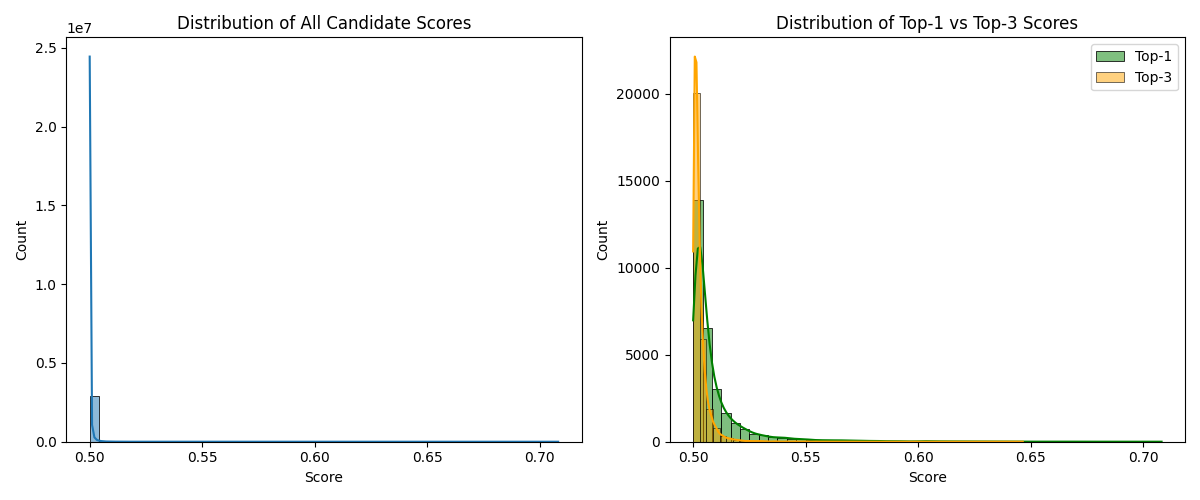
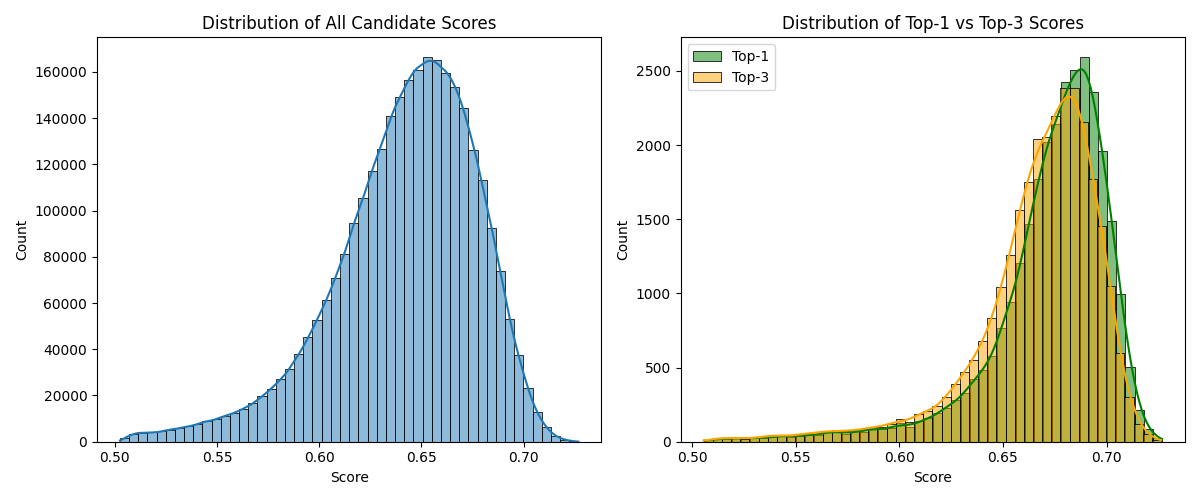
New rerank model -> fuck!

diff --git a/analyze_level0_distribution.py b/analyze_level0_distribution.py
@@ -1,0 +1,223 @@
+import json
+import numpy as np
+import matplotlib.pyplot as plt
+import seaborn as sns
+from collections import defaultdict, Counter
+
+def get_level0_mapping():
+    """
+    각 클래스가 어느 level 0 클래스에 속하는지 매핑
+    Returns: {class_id: level0_class_id}
+    """
+    # Load hierarchy
+    with open('Amazon_products/class_hierarchy.txt', 'r') as f:
+        edges = []
+        for line in f:
+            parts = line.strip().split('\t')
+            if len(parts) == 2:
+                parent, child = map(int, parts)
+                edges.append((parent, child))
+    
+    # Build parent dict
+    parents_dict = defaultdict(list)
+    for parent, child in edges:
+        parents_dict[child].append(parent)
+    
+    # Load all classes
+    with open('Amazon_products/classes.txt', 'r') as f:
+        all_classes = set()
+        id2class = {}
+        for line in f:
+            parts = line.strip().split('\t')
+            if len(parts) == 2:
+                cid, cname = parts
+                all_classes.add(int(cid))
+                id2class[int(cid)] = cname
+    
+    # Find root nodes (level 0)
+    level0_nodes = set()
+    for cid in all_classes:
+        if cid not in parents_dict or len(parents_dict[cid]) == 0:
+            level0_nodes.add(cid)
+    
+    print(f"Found {len(level0_nodes)} Level 0 nodes:")
+    for cid in sorted(level0_nodes):
+        print(f"  Class {cid}: {id2class.get(cid, 'Unknown')}")
+    
+    # Map each class to its root (level 0) ancestor
+    class_to_level0 = {}
+    
+    def find_root(cid):
+        """Recursively find the root ancestor"""
+        if cid in level0_nodes:
+            return cid
+        if cid not in parents_dict or len(parents_dict[cid]) == 0:
+            return cid  # If no parents, it's a root itself
+        # Follow the first parent (assuming tree structure)
+        parent = parents_dict[cid][0]
+        return find_root(parent)
+    
+    for cid in all_classes:
+        class_to_level0[cid] = find_root(cid)
+    
+    return class_to_level0, id2class, level0_nodes
+
+def analyze_level0_distribution():
+    """
+    Analyze how many distinct level 0 classes each document has in its core classes
+    """
+    print("="*100)
+    print("Analyzing Level 0 Class Distribution in Core Classes")
+    print("="*100)
+    
+    # Get mapping
+    class_to_level0, id2class, level0_nodes = get_level0_mapping()
+    
+    # Load core classes
+    print("\nLoading core classes...")
+    with open('checkpoints/core_classes.json', 'r') as f:
+        core_classes = json.load(f)
+    
+    # Analyze level 0 distribution
+    level0_counts = []  # Number of distinct level 0 classes per document
+    level0_distribution = Counter()  # Count of documents with X level 0 classes
+    
+    docs_with_classes = 0
+    total_docs = len(core_classes)
+    
+    for doc_id, classes in core_classes.items():
+        if not classes:
+            level0_counts.append(0)
+            level0_distribution[0] += 1
+            continue
+        
+        docs_with_classes += 1
+        
+        # Get unique level 0 classes for this document
+        level0_set = set()
+        for cid in classes:
+            level0_id = class_to_level0.get(int(cid), -1)
+            if level0_id != -1:
+                level0_set.add(level0_id)
+        
+        num_level0 = len(level0_set)
+        level0_counts.append(num_level0)
+        level0_distribution[num_level0] += 1
+    
+    # Statistics
+    print(f"\n{'='*100}")
+    print(f"Summary Statistics:")
+    print(f"{'='*100}")
+    print(f"Total documents: {total_docs}")
+    print(f"Documents with core classes: {docs_with_classes} ({docs_with_classes/total_docs*100:.1f}%)")
+    print(f"Documents without core classes: {total_docs - docs_with_classes} ({(total_docs - docs_with_classes)/total_docs*100:.1f}%)")
+    
+    non_zero_counts = [c for c in level0_counts if c > 0]
+    if non_zero_counts:
+        print(f"\nLevel 0 Class Count Statistics (excluding empty docs):")
+        print(f"  Mean: {np.mean(non_zero_counts):.2f}")
+        print(f"  Median: {np.median(non_zero_counts):.1f}")
+        print(f"  Min: {min(non_zero_counts)}")
+        print(f"  Max: {max(non_zero_counts)}")
+        print(f"  Std: {np.std(non_zero_counts):.2f}")
+    
+    print(f"\n{'='*100}")
+    print(f"Distribution of Level 0 Classes per Document:")
+    print(f"{'='*100}")
+    print(f"{'Num Level 0':<15} {'Count':<10} {'Percentage':<12} {'Bar':<50}")
+    print(f"-"*100)
+    
+    for num_level0 in sorted(level0_distribution.keys()):
+        count = level0_distribution[num_level0]
+        pct = count / total_docs * 100
+        bar = '█' * int(pct)
+        print(f"{num_level0:<15} {count:<10} {pct:>5.1f}%       {bar:<50}")
+    
+    # Visualization
+    fig, axes = plt.subplots(2, 2, figsize=(16, 12))
+    
+    # Plot 1: Bar chart of distribution
+    sorted_keys = sorted(level0_distribution.keys())
+    counts = [level0_distribution[k] for k in sorted_keys]
+    
+    axes[0, 0].bar(sorted_keys, counts, color='skyblue', edgecolor='black')
+    axes[0, 0].set_xlabel('Number of Level 0 Classes', fontsize=12)
+    axes[0, 0].set_ylabel('Number of Documents', fontsize=12)
+    axes[0, 0].set_title('Distribution of Level 0 Classes per Document', fontsize=14)
+    axes[0, 0].grid(True, alpha=0.3, axis='y')
+    axes[0, 0].set_xticks(sorted_keys)
+    
+    # Plot 2: Pie chart (excluding 0)
+    non_zero_dist = {k: v for k, v in level0_distribution.items() if k > 0}
+    if non_zero_dist:
+        labels = [f'{k} classes' for k in sorted(non_zero_dist.keys())]
+        sizes = [non_zero_dist[k] for k in sorted(non_zero_dist.keys())]
+        colors = plt.cm.Set3(range(len(labels)))
+        
+        axes[0, 1].pie(sizes, labels=labels, autopct='%1.1f%%', colors=colors, startangle=90)
+        axes[0, 1].set_title('Distribution (Excluding Empty Documents)', fontsize=14)
+    
+    # Plot 3: Cumulative distribution
+    cumulative = []
+    total = sum(level0_distribution.values())
+    cum_sum = 0
+    for k in sorted_keys:
+        cum_sum += level0_distribution[k]
+        cumulative.append(cum_sum / total * 100)
+    
+    axes[1, 0].plot(sorted_keys, cumulative, marker='o', linewidth=2, markersize=8, color='green')
+    axes[1, 0].set_xlabel('Number of Level 0 Classes', fontsize=12)
+    axes[1, 0].set_ylabel('Cumulative Percentage (%)', fontsize=12)
+    axes[1, 0].set_title('Cumulative Distribution', fontsize=14)
+    axes[1, 0].grid(True, alpha=0.3)
+    axes[1, 0].set_xticks(sorted_keys)
+    axes[1, 0].axhline(y=50, color='red', linestyle='--', alpha=0.5, label='50%')
+    axes[1, 0].axhline(y=90, color='orange', linestyle='--', alpha=0.5, label='90%')
+    axes[1, 0].legend()
+    
+    # Plot 4: Histogram (excluding 0)
+    non_zero_counts_arr = [c for c in level0_counts if c > 0]
+    if non_zero_counts_arr:
+        axes[1, 1].hist(non_zero_counts_arr, bins=range(1, max(non_zero_counts_arr)+2), 
+                        color='coral', edgecolor='black', alpha=0.7)
+        axes[1, 1].axvline(np.mean(non_zero_counts_arr), color='red', linestyle='--', 
+                          linewidth=2, label=f'Mean: {np.mean(non_zero_counts_arr):.2f}')
+        axes[1, 1].axvline(np.median(non_zero_counts_arr), color='green', linestyle='--', 
+                          linewidth=2, label=f'Median: {np.median(non_zero_counts_arr):.1f}')
+        axes[1, 1].set_xlabel('Number of Level 0 Classes', fontsize=12)
+        axes[1, 1].set_ylabel('Frequency', fontsize=12)
+        axes[1, 1].set_title('Histogram (Excluding Empty Documents)', fontsize=14)
+        axes[1, 1].legend()
+        axes[1, 1].grid(True, alpha=0.3, axis='y')
+    
+    plt.tight_layout()
+    plt.savefig('level0_distribution.png', dpi=150)
+    print(f"\n✅ Saved visualization to: level0_distribution.png")
+    
+    # Sample analysis
+    print(f"\n{'='*100}")
+    print(f"Sample Documents:")
+    print(f"{'='*100}")
+    
+    # Show samples from each category
+    samples_per_category = {}
+    for doc_id, classes in core_classes.items():
+        if not classes:
+            continue
+        level0_set = set(class_to_level0.get(int(cid), -1) for cid in classes if class_to_level0.get(int(cid), -1) != -1)
+        num_level0 = len(level0_set)
+        
+        if num_level0 not in samples_per_category:
+            samples_per_category[num_level0] = []
+        if len(samples_per_category[num_level0]) < 3:
+            samples_per_category[num_level0].append((doc_id, classes, level0_set))
+    
+    for num_level0 in sorted(samples_per_category.keys()):
+        print(f"\n--- Documents with {num_level0} Level 0 Classes ---")
+        for doc_id, classes, level0_set in samples_per_category[num_level0]:
+            print(f"  Doc {doc_id}:")
+            print(f"    Core classes: {classes}")
+            print(f"    Level 0 classes: {[id2class.get(cid, f'Class {cid}') for cid in level0_set]}")
+
+if __name__ == "__main__":
+    analyze_level0_distribution()

diff --git a/src/core_mining.py b/src/core_mining.py
@@ -274,8 +274,18 @@ def identify_confident_core_classes(doc_candidates, parents_dict, children_dict)
         else:
             class_thresholds[c] = 0.0 # Should not happen if c is in candidates
             
-    # 3. Filter and Top-3 Selection
+    # 3. Filter and Level 0 Weighted Voting Selection
     final_core_classes = {} # {doc_id: [core_class1, core_class2]}
+    
+    # Helper function to find Level 0 ancestor
+    def get_level0_ancestor(class_id, parents_dict):
+        """Traverse up the hierarchy to find the root (Level 0) node"""
+        current = class_id
+        while True:
+            parents = parents_dict.get(current, [])
+            if not parents:  # Reached root
+                return current
+            current = parents[0]  # Follow first parent
     
     for doc_id, confs in doc_confidences.items():
         # [Fix] Retrieve candidates for the current document
@@ -291,20 +301,53 @@ def identify_confident_core_classes(doc_candidates, parents_dict, children_dict)
         # Sort by Confidence Score (Descending)
         valid_candidates.sort(key=lambda x: x[1], reverse=True)
         
-        # Keep Top-K
-        # [Added] Hard Filter: Raw NLI Score > 0.33
-        # Even if confidence is high relative to family, absolute score must be reasonable.
-        final_candidates = []
+        # Step 1: Select initial candidates with absolute threshold
+        initial_candidates = []
         for c, conf in valid_candidates:
-            # Filter by Threshold (Min-Max Scaled)
-            # Need to retrieve the raw NLI score for 'c' from 'candidates'
+            # Filter by absolute threshold (lowered to be more inclusive)
             raw_score = candidates.get(c, 0.0) 
-            if raw_score > 0.5005:
-                final_candidates.append(c)
+            if raw_score > 0.62:  # Lowered from 0.6546
+                initial_candidates.append(c)
 
-            if len(final_candidates) >= 15: # Top-3 제한 추가
+            if len(initial_candidates) >= 9:  # Adaptive top-k (reduced from 12)
                 break
-
+        
+        # Step 2: Level 0 Weighted Voting
+        if not initial_candidates:
+            final_core_classes[doc_id] = []
+            continue
+        
+        # Get Level 0 of the highest-scoring class (must be included)
+        top_class_level0 = get_level0_ancestor(initial_candidates[0], parents_dict)
+        
+        # Weighted voting: 1st = N points, 2nd = N-1 points, ..., Nth = 1 point
+        level0_scores = defaultdict(float)
+        n = len(initial_candidates)
+        
+        for rank, class_id in enumerate(initial_candidates):
+            points = n - rank  # 1st gets n, 2nd gets n-1, etc.
+            level0_id = get_level0_ancestor(class_id, parents_dict)
+            level0_scores[level0_id] += points
+        
+        # Step 3: Select top 3 Level 0 categories (including top_class_level0)
+        sorted_level0 = sorted(level0_scores.items(), key=lambda x: x[1], reverse=True)
+        
+        # Ensure top_class_level0 is included
+        selected_level0s = {top_class_level0}
+        
+        # Add up to 2 more Level 0s
+        for level0_id, score in sorted_level0:
+            if level0_id not in selected_level0s:
+                selected_level0s.add(level0_id)
+            if len(selected_level0s) >= 2:
+                break
+        
+        # Step 4: Keep only classes from selected Level 0s
+        final_candidates = []
+        for class_id in initial_candidates:
+            level0_id = get_level0_ancestor(class_id, parents_dict)
+            if level0_id in selected_level0s:
+                final_candidates.append(class_id)
             
         final_core_classes[doc_id] = final_candidates
         